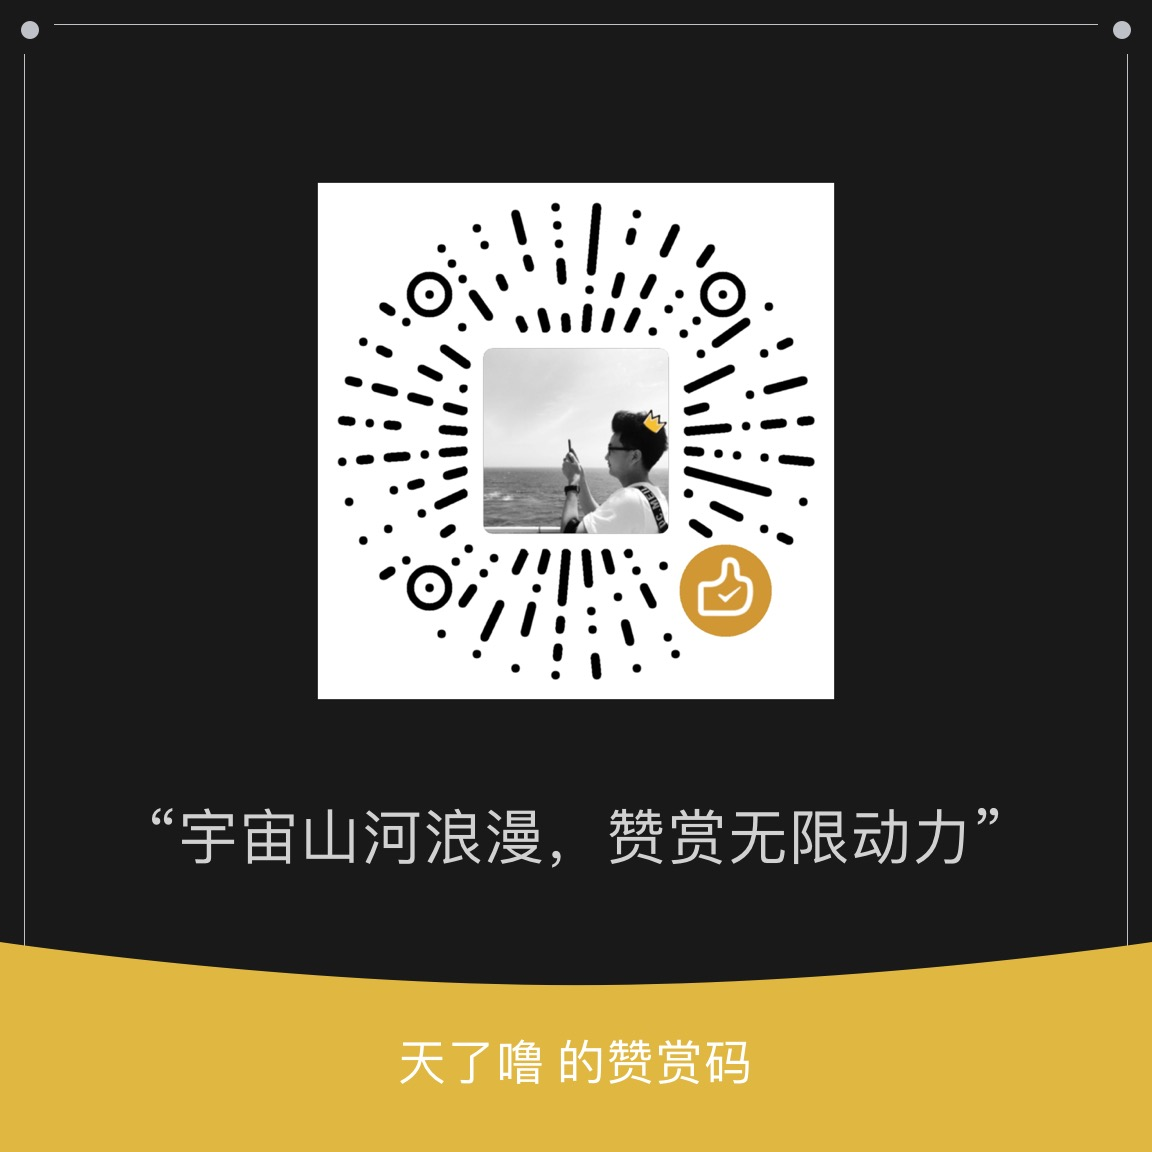
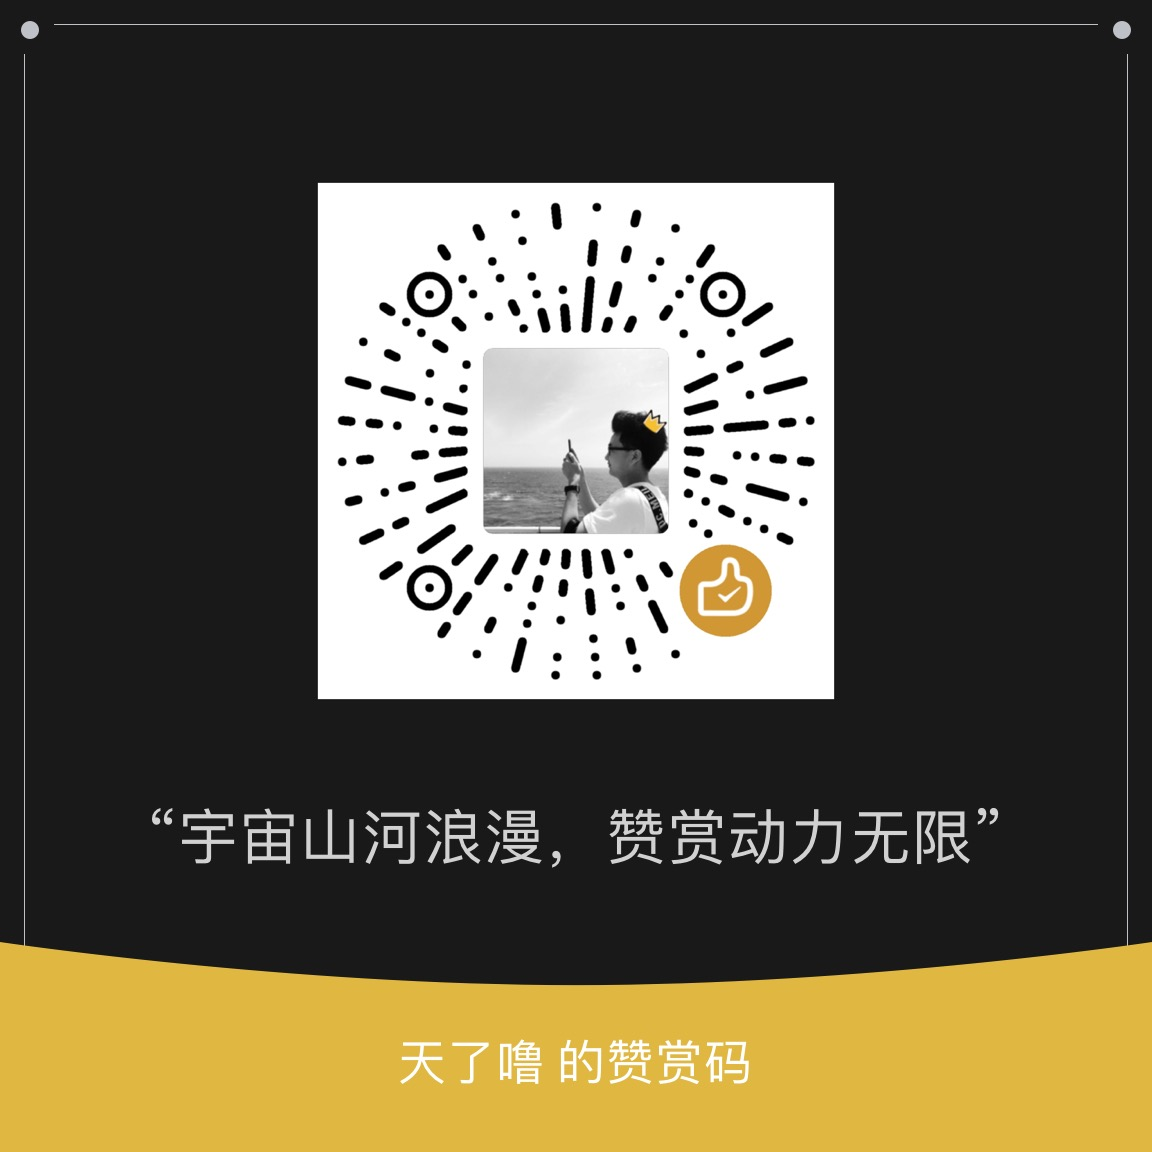
Site updated: 2023-08-31 15:46:45

diff --git a/2022/12/24/rust_docs/ch_00_00_introducation/index.html b/2022/12/24/rust_docs/ch_00_00_introducation/index.html
@@ -275,7 +275,7 @@
     
     
         <div class="reward-container">
-  <div>Buy me a coffee</div>
+  <div>宇宙山河浪漫，赞赏动力无限</div>
   <button onclick="var qr = document.getElementById('qr'); qr.style.display = (qr.style.display === 'none') ? 'block' : 'none';">
     Donate
   </button>

diff --git a/2022/12/25/rust_docs/ch_01_01_Installation/index.html b/2022/12/25/rust_docs/ch_01_01_Installation/index.html
@@ -273,7 +273,7 @@
     
     
         <div class="reward-container">
-  <div>Buy me a coffee</div>
+  <div>宇宙山河浪漫，赞赏动力无限</div>
   <button onclick="var qr = document.getElementById('qr'); qr.style.display = (qr.style.display === 'none') ? 'block' : 'none';">
     Donate
   </button>

diff --git a/2022/12/26/rust_docs/ch_01_02_hello_world/index.html b/2022/12/26/rust_docs/ch_01_02_hello_world/index.html
@@ -285,7 +285,7 @@
     
     
         <div class="reward-container">
-  <div>Buy me a coffee</div>
+  <div>宇宙山河浪漫，赞赏动力无限</div>
   <button onclick="var qr = document.getElementById('qr'); qr.style.display = (qr.style.display === 'none') ? 'block' : 'none';">
     Donate
   </button>

diff --git a/2022/12/27/rust_docs/ch_01_03_hello_cargo/index.html b/2022/12/27/rust_docs/ch_01_03_hello_cargo/index.html
@@ -283,7 +283,7 @@
     
     
         <div class="reward-container">
-  <div>Buy me a coffee</div>
+  <div>宇宙山河浪漫，赞赏动力无限</div>
   <button onclick="var qr = document.getElementById('qr'); qr.style.display = (qr.style.display === 'none') ? 'block' : 'none';">
     Donate
   </button>

diff --git a/2022/12/28/rust_docs/ch_02_00_guessing_game_tutorial/index.html b/2022/12/28/rust_docs/ch_02_00_guessing_game_tutorial/index.html
@@ -291,7 +291,7 @@
     
     
         <div class="reward-container">
-  <div>Buy me a coffee</div>
+  <div>宇宙山河浪漫，赞赏动力无限</div>
   <button onclick="var qr = document.getElementById('qr'); qr.style.display = (qr.style.display === 'none') ? 'block' : 'none';">
     Donate
   </button>

diff --git a/2022/12/29/rust_docs/ch_03_00_common_programming_concepts/index.html b/2022/12/29/rust_docs/ch_03_00_common_programming_concepts/index.html
@@ -269,7 +269,7 @@
     
     
         <div class="reward-container">
-  <div>Buy me a coffee</div>
+  <div>宇宙山河浪漫，赞赏动力无限</div>
   <button onclick="var qr = document.getElementById('qr'); qr.style.display = (qr.style.display === 'none') ? 'block' : 'none';">
     Donate
   </button>

diff --git a/2022/12/29/rust_docs/ch_03_01_variables_and_mutability/index.html b/2022/12/29/rust_docs/ch_03_01_variables_and_mutability/index.html
@@ -286,7 +286,7 @@
     
     
         <div class="reward-container">
-  <div>Buy me a coffee</div>
+  <div>宇宙山河浪漫，赞赏动力无限</div>
   <button onclick="var qr = document.getElementById('qr'); qr.style.display = (qr.style.display === 'none') ? 'block' : 'none';">
     Donate
   </button>

diff --git a/2022/12/29/rust_docs/ch_03_02_data_types/index.html b/2022/12/29/rust_docs/ch_03_02_data_types/index.html
@@ -277,7 +277,7 @@
     
     
         <div class="reward-container">
-  <div>Buy me a coffee</div>
+  <div>宇宙山河浪漫，赞赏动力无限</div>
   <button onclick="var qr = document.getElementById('qr'); qr.style.display = (qr.style.display === 'none') ? 'block' : 'none';">
     Donate
   </button>

diff --git a/2022/12/29/rust_docs/ch_03_03_how_functions_work/index.html b/2022/12/29/rust_docs/ch_03_03_how_functions_work/index.html
@@ -284,7 +284,7 @@
     
     
         <div class="reward-container">
-  <div>Buy me a coffee</div>
+  <div>宇宙山河浪漫，赞赏动力无限</div>
   <button onclick="var qr = document.getElementById('qr'); qr.style.display = (qr.style.display === 'none') ? 'block' : 'none';">
     Donate
   </button>

diff --git a/2022/12/29/rust_docs/ch_03_04_comments/index.html b/2022/12/29/rust_docs/ch_03_04_comments/index.html
@@ -280,7 +280,7 @@
     
     
         <div class="reward-container">
-  <div>Buy me a coffee</div>
+  <div>宇宙山河浪漫，赞赏动力无限</div>
   <button onclick="var qr = document.getElementById('qr'); qr.style.display = (qr.style.display === 'none') ? 'block' : 'none';">
     Donate
   </button>

diff --git a/2022/12/29/rust_docs/ch_03_05_control_flow/index.html b/2022/12/29/rust_docs/ch_03_05_control_flow/index.html
@@ -275,7 +275,7 @@
     
     
         <div class="reward-container">
-  <div>Buy me a coffee</div>
+  <div>宇宙山河浪漫，赞赏动力无限</div>
   <button onclick="var qr = document.getElementById('qr'); qr.style.display = (qr.style.display === 'none') ? 'block' : 'none';">
     Donate
   </button>

diff --git a/2022/12/29/rust_docs/ch_04_00_understanding_ownership/index.html b/2022/12/29/rust_docs/ch_04_00_understanding_ownership/index.html
@@ -269,7 +269,7 @@
     
     
         <div class="reward-container">
-  <div>Buy me a coffee</div>
+  <div>宇宙山河浪漫，赞赏动力无限</div>
   <button onclick="var qr = document.getElementById('qr'); qr.style.display = (qr.style.display === 'none') ? 'block' : 'none';">
     Donate
   </button>
